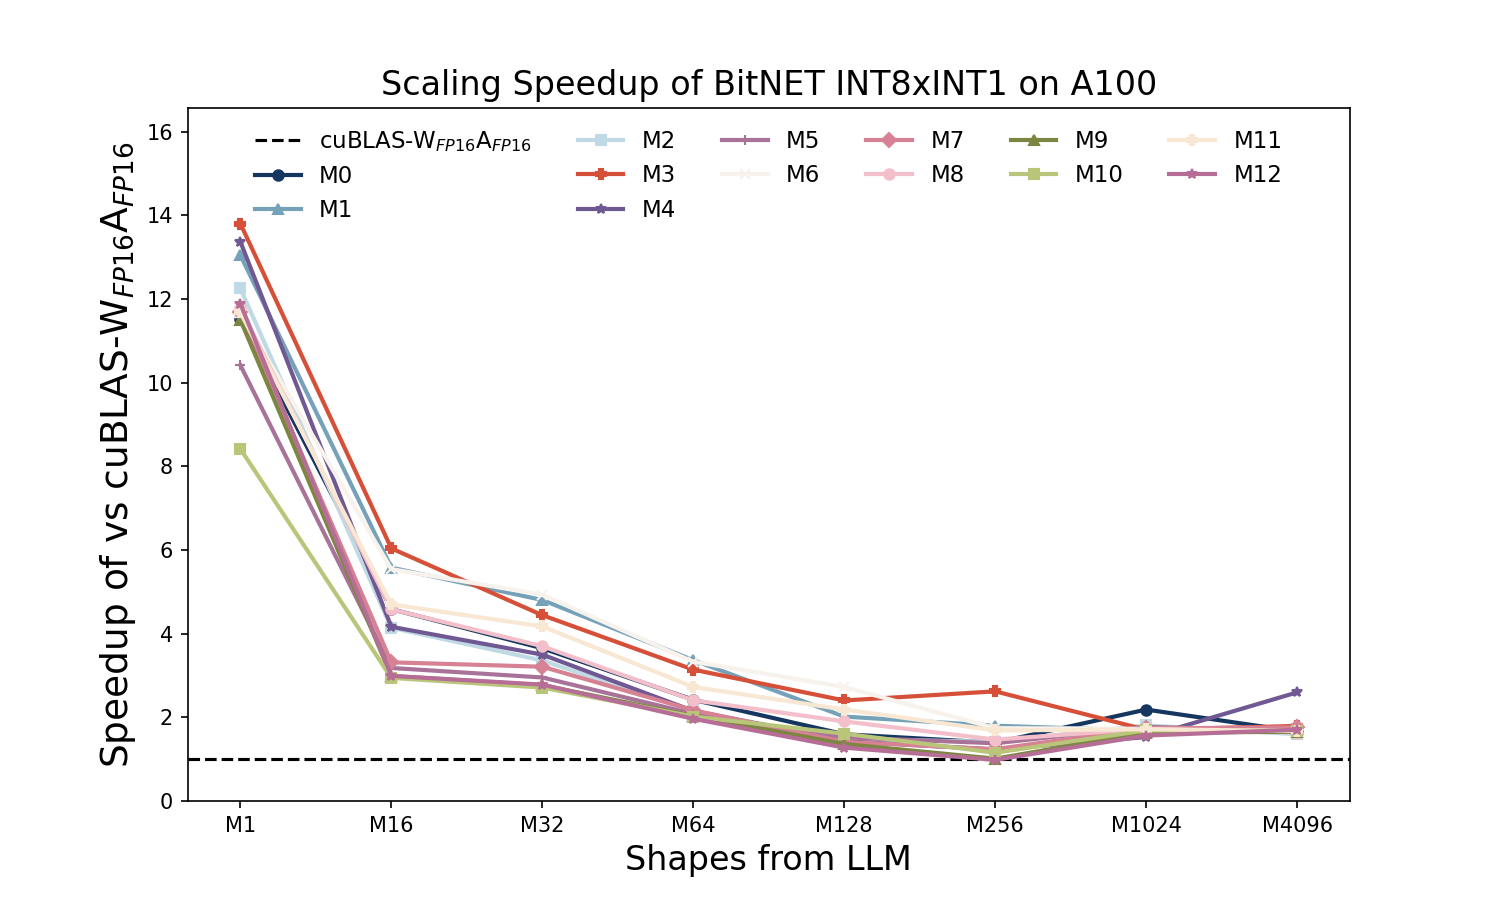
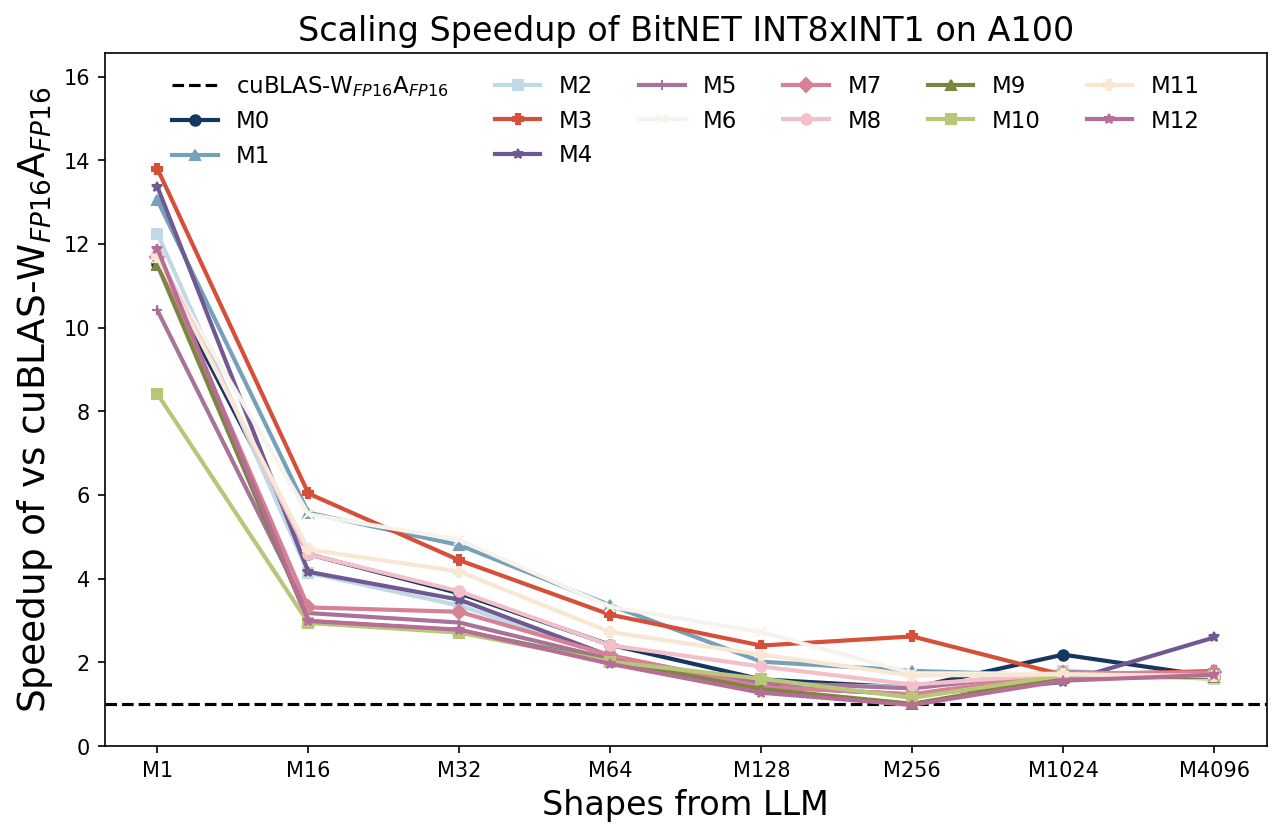
Update benchmark information in README.md

diff --git a/benchmark/README.md b/benchmark/README.md
@@ -97,13 +97,22 @@ The benchmark configurations for each test scenario are detailed below:
 
 ## Benchmark Images
 
-- GTX 3090
-  - ![3090-gemm-fp16](../images/figures/op_benchmark_3090_fp16_gemm.png)
-  - ![3090-gemm-s8](../images/figures/op_benchmark_3090_s8_gemm.png)
-  - ![3090-nf4-gemv](../images/figures/op_benchmark_3090_af4_gemv.png)
-  - ![3090-nf4-gemm](../images/figures/op_benchmark_3090_af4_gemm.png)
+INT8xINT1 Matmul BS Scaling on A100.
 
-- A100
-  - ![a100-wq-gemv](../images/figures/op_benchmark_a100_wq_gemv.png)
-  - ![a100-wq-gemm](../images/figures/op_benchmark_a100_wq_gemm.png)
+![int8xint1_scaling](../images/figures/op_benchmark_a100_int1_scaling.png)
 
+3090 Related benchmark numbers
+
+![3090-gemm-fp16](../images/figures/op_benchmark_3090_fp16_gemm.png)
+
+![3090-gemm-s8](../images/figures/op_benchmark_3090_s8_gemm.png)
+
+![3090-nf4-gemv](../images/figures/op_benchmark_3090_nf4_gemv.png)
+
+![3090-nf4-gemm](../images/figures/op_benchmark_3090_nf4_gemm.png)
+
+A100 Related Benchmark Result
+
+![a100-wq-gemv](../images/figures/op_benchmark_a100_wq_gemv_e8.png)
+
+![a100-wq-gemm](../images/figures/op_benchmark_a100_wq_gemm_e8.png)

diff --git a/README.md b/README.md
@@ -33,7 +33,7 @@ BitBLAS achieves exceptional performance across a variety of computational patte
     <img src="./images/figures/op_benchmark_consistent_gemm_int8.png" alt="gemm int8 performance on 4090 and a100" style="width: 49%;" />
   </div>
 
-For more detailed information on benchmark sets with other formats (NF4/FP4), please refer to the [benchmark](./benchmark/README.md).
+For more detailed information on benchmark sets with other formats (NF4/FP4) and other devices (GTX 3090), please refer to the [benchmark](./benchmark/README.md).
 
 ## Getting Started
 
